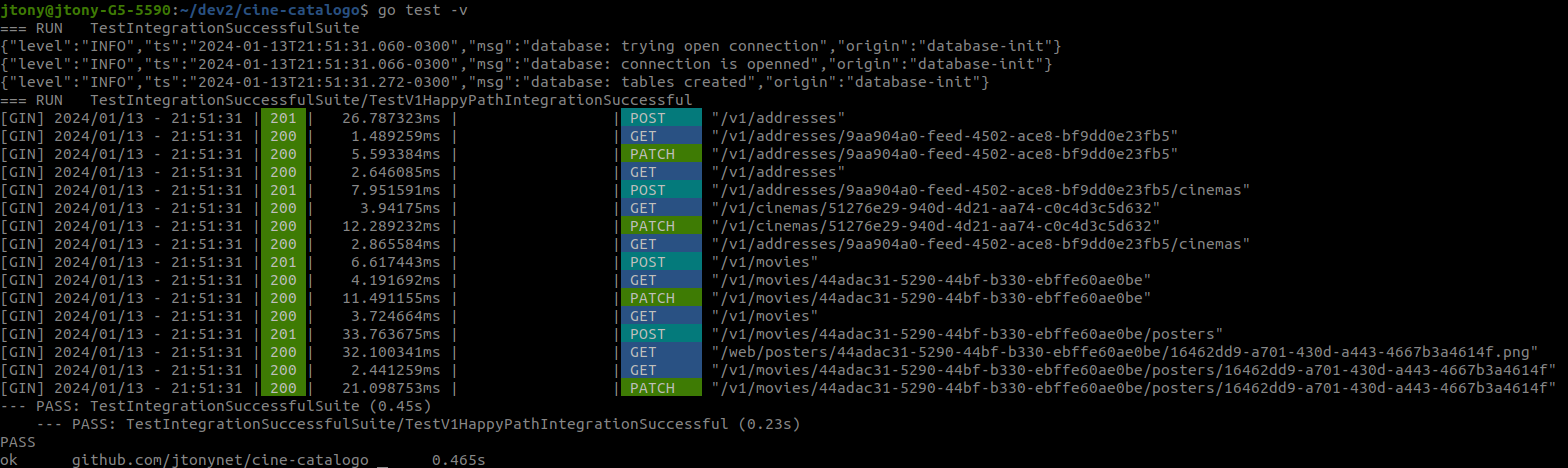
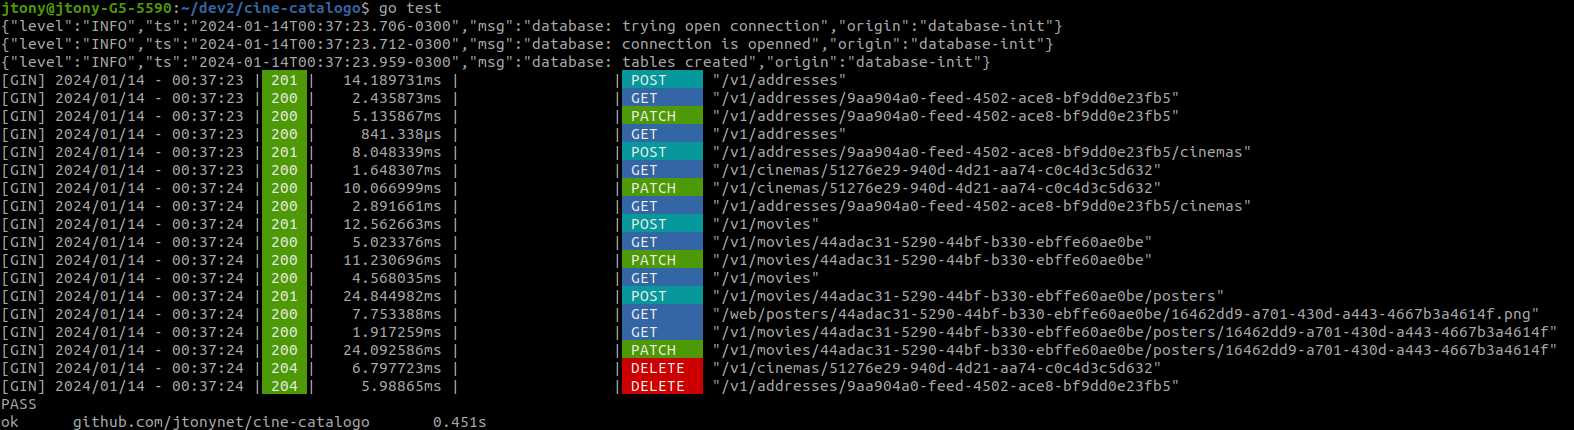
feat(docs): adding Integration test ADR and preparing for revision

Changed region(s): [[0.0, 0.0, 1.0, 1.0]]

diff --git a/main_routes_integration_successful_test.go b/main_routes_integration_successful_test.go
@@ -30,16 +30,6 @@ import (
 	"github.com/jtonynet/cine-catalogo/internal/models"
 )
 
-/*
-TODO: Using gin engine or ginTestEngine for tests, context params bugfixes (move to ADR or another doc):
-	https://medium.com/nerd-for-tech/testing-rest-api-in-go-with-testify-and-mockery-c31ea2cc88f9
-	https://forum.golangbridge.org/t/how-to-test-gin-gonic-handler-function-within-a-function/33334/2
-	https://github.com/gin-gonic/gin/issues/1292
-	https://github.com/gin-gonic/gin/pull/2803
-	https://github.com/gin-gonic/gin/issues/2778
-	https://github.com/gin-gonic/gin/issues/2816
-*/
-
 type IntegrationSuccesfulSuite struct {
 	suite.Suite
 
@@ -66,6 +56,7 @@ func (suite *IntegrationSuccesfulSuite) SetupSuite() {
 	suite.versionURL = fmt.Sprintf("%s/%s", suite.cfg.API.Host, "v1")
 	suite.router, suite.routesV1 = setupRouterAndGroup(suite.cfg.API)
 
+	handlers.Init()
 	database.Init(suite.cfg.Database)
 
 	suite.addressUUID, _ = uuid.Parse("9aa904a0-feed-4502-ace8-bf9dd0e23fb5") // uuid.New()
@@ -137,6 +128,10 @@ func (suite *IntegrationSuccesfulSuite) TestV1HappyPathIntegrationSuccessful() {
 
 	// POSTERS CONTEXT
 	suite.postersRoutes()
+
+	// DELETES
+	suite.deleteCinemaRoute()
+	suite.deleteAddressRoute()
 }
 
 func (suite *IntegrationSuccesfulSuite) addressesRoutes() {
@@ -555,8 +550,7 @@ func (suite *IntegrationSuccesfulSuite) postersRoutes() {
 	io.Copy(posterUpdateFilePart, fileUpdateBytes)
 
 	posterUpdateMultPartFields := map[string]string{
-		"name":            "Back To The Recursion",
-		"alternativeText": "",
+		"name": "Back To The Recursion",
 	}
 
 	for key, value := range posterUpdateMultPartFields {
@@ -574,6 +568,34 @@ func (suite *IntegrationSuccesfulSuite) postersRoutes() {
 
 	assert.Equal(suite.T(), http.StatusOK, respUpdatePoster.Code)
 	assert.Equal(suite.T(), respUpdatePoster.Header().Get("Content-Type"), responses.HALHeaders["Content-Type"])
+}
+
+func (suite *IntegrationSuccesfulSuite) deleteCinemaRoute() {
+	// Delete Cinema
+	suite.router, suite.routesV1 = setupRouterAndGroup(suite.cfg.API)
+	suite.routesV1.DELETE("/cinemas/:cinema_id", handlers.DeleteCinema)
+
+	cinemaUUIDRoute := fmt.Sprintf("/v1/cinemas/%s", suite.cinemaUUID.String())
+	reqCinemaDelete, err := http.NewRequest("DELETE", cinemaUUIDRoute, nil)
+	assert.NoError(suite.T(), err)
+	respCinemaDelete := httptest.NewRecorder()
+	suite.router.ServeHTTP(respCinemaDelete, reqCinemaDelete)
+
+	assert.Equal(suite.T(), http.StatusNoContent, respCinemaDelete.Code)
+}
+
+func (suite *IntegrationSuccesfulSuite) deleteAddressRoute() {
+	// Delete Cinema
+	suite.router, suite.routesV1 = setupRouterAndGroup(suite.cfg.API)
+	suite.routesV1.DELETE("/addresses/:address_id", handlers.DeleteAddress)
+
+	addressUUIDRoute := fmt.Sprintf("/v1/addresses/%s", suite.addressUUID.String())
+	reqAddressDelete, err := http.NewRequest("DELETE", addressUUIDRoute, nil)
+	assert.NoError(suite.T(), err)
+	respAddressDelete := httptest.NewRecorder()
+	suite.router.ServeHTTP(respAddressDelete, reqAddressDelete)
+
+	assert.Equal(suite.T(), http.StatusNoContent, respAddressDelete.Code)
 }
 
 func calculateMD5(buffer []byte) string {

diff --git a/internal/handlers/cinema.go b/internal/handlers/cinema.go
@@ -139,7 +139,6 @@ func RetrieveCinema(ctx *gin.Context) {
 		log.WithField("origin", handler).
 			Error("error invalid cinema_id")
 
-		//responses.SendError(ctx, http.StatusForbidden, "Malformed or missing address_id", nil)
 		responses.SendError(ctx, http.StatusInternalServerError, "Malformed or missing address_id", nil)
 		return
 	}

diff --git a/docs/architecture/decisions/0004-integration-tests.md b/docs/architecture/decisions/0004-integration-tests.md
@@ -1,0 +1,35 @@
+# 4. Integration Tests "Happy Path"
+
+Date: 2024-01-14
+
+## Status
+
+Accepted
+
+## Context
+
+The project started with a focus on simplicity, and TDD was not adopted due to excitement in development, aiming for quick initial deliveries and learning. As the project progressed, a set of tests became indispensable for security and automation. We weighed the options between a suite of unit or integration tests and the standard library or third-party library [Testify](https://github.com/stretchr/testify).
+
+Reference material:
+- The book [Test-Driven Development in Go](https://www.amazon.com.br/Test-Driven-Development-practical-idiomatic-real-world/dp/1803247878) was used as a guide.
+- https://medium.com/nerd-for-tech/testing-rest-api-in-go-with-testify-and-mockery-c31ea2cc88f9
+- https://forum.golangbridge.org/t/how-to-test-gin-gonic-handler-function-within-a-function/33334/2
+
+Issues regarding "context passing" bugs in integration tests:
+- https://github.com/gin-gonic/gin/issues/1292
+- https://github.com/gin-gonic/gin/pull/2803
+- https://github.com/gin-gonic/gin/issues/2778
+- https://github.com/gin-gonic/gin/issues/2816
+
+
+## Decision
+
+During the research, it became evident that in a two-tier architecture in such a simple CRUD, the integration testing approach would be the best option, as there is not much specialized logic of reduced size that justifies unit testing. By using integration testing at the moment, we ensure the "happy path" of the API, and we are already preparing everything for future iterations to evolve with error tests and corner cases of the application.
+
+We also decided to use the [Testify](https://github.com/stretchr/testify) library due to its good adoption in the community and features compared to the standard GO library, which, in the version used, lacks certain asserts.
+
+We tested the routes in a scenario closest to real-world integration testing. We did not use the testing context provided by GIN because the standard route approach worked as expected in our tests.
+
+## Consequences
+
+With ample supporting material and widespread community adoption, Testify ensures security in the implementation of integration tests. We will not test the smallest unit of our system because it does not require that level of complexity, and it makes sense to validate the routes. We expect to reduce cognitive load by using the library and increase the level of security in deployments.

diff --git a/CHANGELOG.md b/CHANGELOG.md
@@ -9,8 +9,22 @@ and this project adheres to [Semantic Versioning](https://semver.org/spec/v2.0.0
 
 ## [Unreleased]
 ### Added
+- Added [Testfy](github.com/stretchr/testify)
+- Added "Happy Path" Integration Succesful Routes tests
+- Added debug and tests section on readme.md doc
+
 
 ### Fixed
+
+
+
+---
+
+## [0.1.1] - 2024-01-14
+### Added
+- Added [Testfy](github.com/stretchr/testify)
+- Added "Happy Path" Integration Succesful Routes tests
+- Added debug and tests section on readme.md doc
 
 ---
 
@@ -54,7 +68,7 @@ and this project adheres to [Semantic Versioning](https://semver.org/spec/v2.0.0
 
 - We start the project [Project](https://github.com/users/jtonynet/projects/2) with initial commit. Base docs: Rich Readme, ADR [0002: Gin, Gorm and Postegres in three tier architecture](./assets/architecture/decisions/0002-gin-gorm-and-postgres-in-three-tier-architecture.md), [Miro Event Storming](https://miro.com/app/board/uXjVNRofMoA=/) and [Mermaid Diagrams](https://github.com/jtonynet/cine-catalogo/tree/main#diagrams)
 
-
+[0.1.1]: https://github.com/jtonynet/cine-catalogo/compare/v0.1.0...v0.1.1
 [0.1.0]: https://github.com/jtonynet/cine-catalogo/compare/v0.0.1...v0.1.0
 [0.0.1]: https://github.com/jtonynet/cine-catalogo/compare/v0.0.0...v0.0.1
 [0.0.0]: https://github.com/jtonynet/cine-catalogo/releases/tag/v0.0.0
